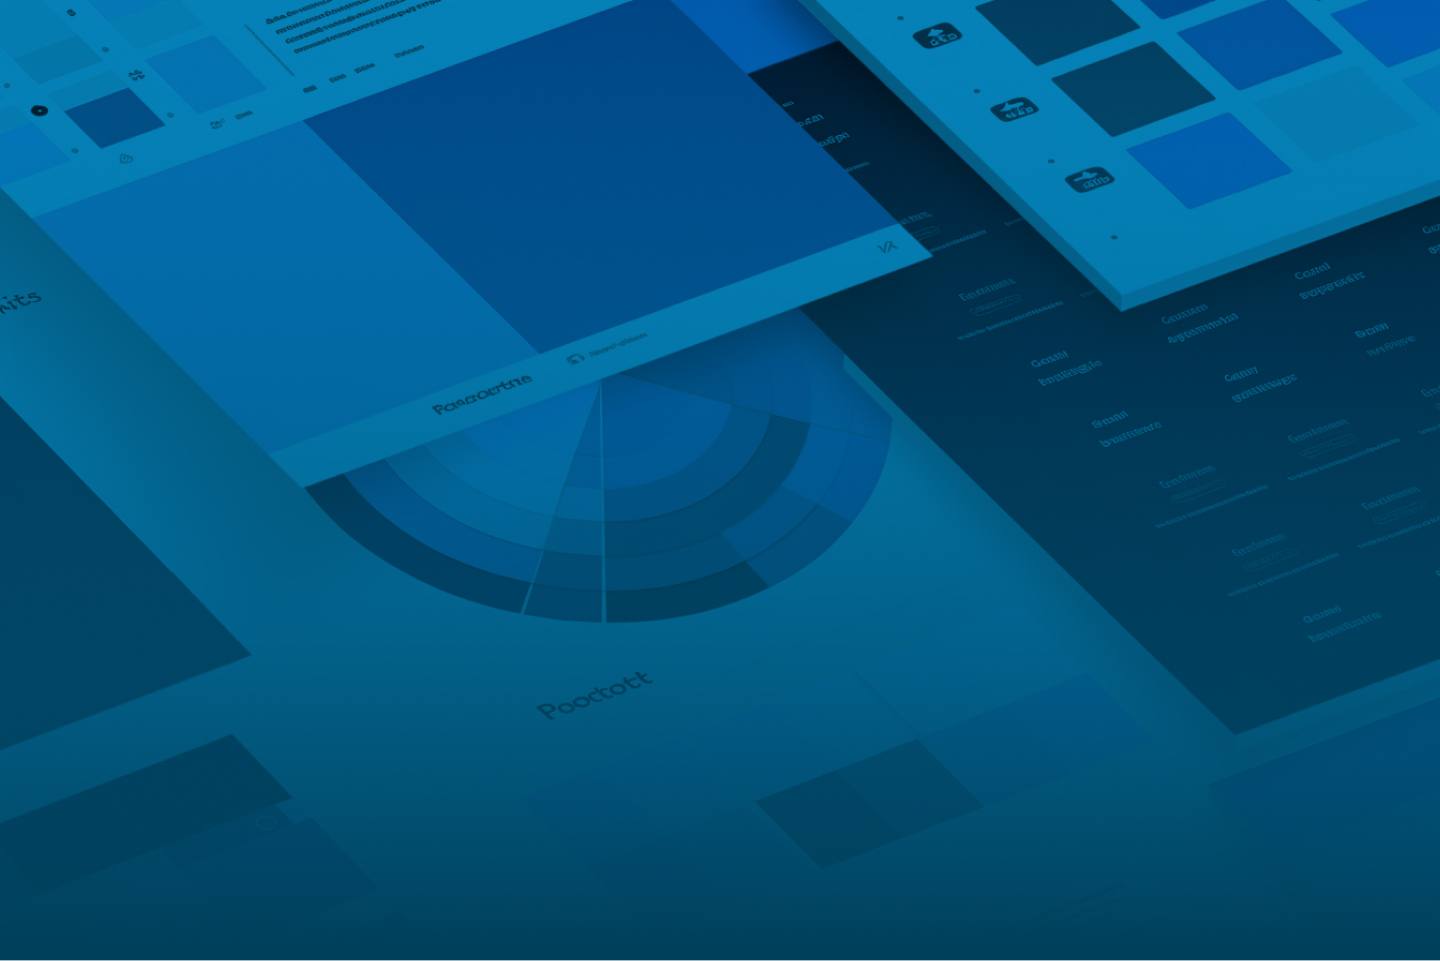
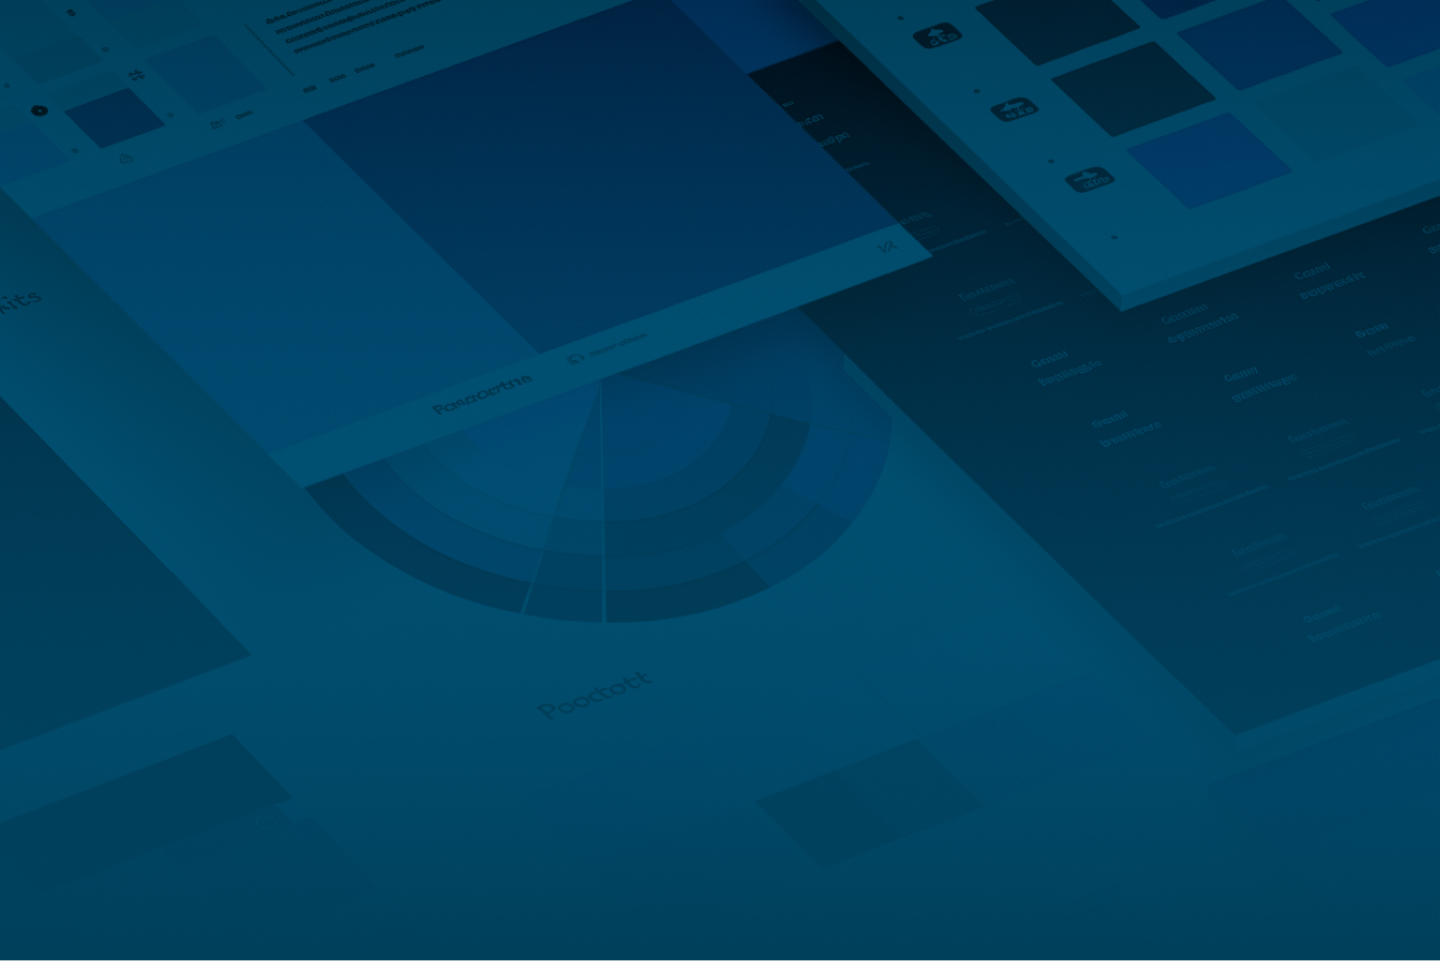
homepage wip

diff --git a/src/pages/index.js b/src/pages/index.js
@@ -6,11 +6,16 @@ import {
   faGrid2Plus,
   faCommentCheck,
 } from '@fortawesome/pro-solid-svg-icons'
+import { faUniversalAccess } from '@fortawesome/pro-regular-svg-icons'
 import TokenIcon from '@mui/icons-material/Token'
 import Image from 'next/image'
+import ReactPlayer from 'react-player'
 import ComponentLibrary from '@/components/icons/ComponentLibrary'
 import builtWithEmulsifyImage from '../images/Built with Emulsify Stamp.png'
 import consistencyImage from '../images/home-consistency.jpg'
+import talkingDrupal from '../images/talking_drupal_logo.png'
+import togetherImage from '../images/home-together.jpg'
+import waveImage from '../images/wave.png'
 
 function Hero() {
   return (
@@ -62,7 +67,7 @@ function DesignSystemsTogether() {
     tryptch: [
       {
         icon: (
-          <ComponentLibrary className="mb-5 h-[48px] text-5xl text-emulsifyBlue-600" />
+          <ComponentLibrary className="mb-5 h-[48px] text-5xl text-orange-500" />
         ),
         title: 'Develop a component-based product experience',
         body: 'A component-based product experience allows for greater efficiency and improved quality in the design and development process.',
@@ -71,7 +76,7 @@ function DesignSystemsTogether() {
         icon: (
           <FontAwesomeIcon
             icon={faDrupal}
-            className="mb-5 text-5xl text-emulsifyBlue-600"
+            className="mb-5 text-5xl text-orange-500"
           />
         ),
         title: 'Create a fully customized Drupal theme from scratch',
@@ -80,10 +85,7 @@ function DesignSystemsTogether() {
       {
         icon: (
           <div className="text-5xl">
-            <TokenIcon
-              className="mb-5 text-emulsifyBlue-600"
-              fontSize="inherit"
-            />
+            <TokenIcon className="mb-5 text-orange-500" fontSize="inherit" />
           </div>
         ),
         title: 'Use the shared language of design tokens',
@@ -95,8 +97,9 @@ function DesignSystemsTogether() {
     <section
       className={classNames(
         'bg-gradient-to-b from-emulsifyBlue-900 to-violet-900',
-        'text-white'
+        'bg-cover text-white'
       )}
+      style={{ backgroundImage: `url("${togetherImage.src}")` }}
     >
       <div className="mx-auto max-w-8xl py-32 sm:px-2 lg:px-8 xl:px-12">
         <h2
@@ -151,7 +154,7 @@ function Consistency() {
         icon: (
           <FontAwesomeIcon
             icon={faGrid2Plus}
-            className="mb-5 text-5xl text-orange-600"
+            className="mb-5 text-5xl text-emulsifyBlue-500"
           />
         ),
         title: 'Get brand consistency, efficiently',
@@ -161,22 +164,27 @@ function Consistency() {
         icon: (
           <FontAwesomeIcon
             icon={faCommentCheck}
-            className="mb-5 text-5xl text-orange-600"
+            className="mb-5 text-5xl text-emulsifyBlue-500"
           />
         ),
-        title:
-          'Let departments and schools express themselves while keeping your brand consistent',
+        title: 'Let departments and schools express themselves',
         body: 'Give clear guidelines to departments, schools, and other entities on how to express themselves while staying true to your brand. Find a balance between individuality and consistency to maintain a cohesive brand image.',
+      },
+      {
+        icon: (
+          <FontAwesomeIcon
+            icon={faUniversalAccess}
+            className="mb-5 text-5xl text-emulsifyBlue-500"
+          />
+        ),
+        title: 'Include everyone with high accessibility standards',
+        body: 'Early identification and addressing potential accessibility issues create a more accessible experience for everyone, including users with disabilities who may struggle with inaccessible websites.',
       },
     ],
   }
   return (
     <section
-      className={classNames(
-        'bg-gradient-to-b from-emulsifyBlue-900 to-violet-900',
-        'text-white',
-        'bg-cover'
-      )}
+      className={classNames('text-white', 'bg-cover')}
       style={{ backgroundImage: `url("${consistencyImage.src}")` }}
     >
       <div className="mx-auto max-w-8xl py-32 sm:px-2 lg:px-8 xl:px-12">
@@ -188,8 +196,12 @@ function Consistency() {
         >
           Keep <em className="brand-consistency">brand consistency</em> across
           all of your websites
+          <span className="block text-5xl text-orange-200">
+            (while maintaining <FontAwesomeIcon icon={faUniversalAccess} />{' '}
+            accessibility)
+          </span>
         </h2>
-        <ul className="grid max-w-[1000px] grid-cols-2 gap-20">
+        <ul className="grid grid-cols-3 gap-14">
           {content.diptych.map((item) => (
             <li key={item.title}>
               {item.icon}
@@ -209,6 +221,56 @@ function Consistency() {
   )
 }
 
+function WhatIsEmulsify() {
+  return (
+    <section
+      className={classNames('bg-emulsifyBlue-100')}
+      style={{
+        backgroundImage: `url("${waveImage.src}")`,
+        backgroundSize: '25%',
+      }}
+    >
+      <div className="mx-auto max-w-8xl py-16 sm:px-2 lg:px-8 xl:px-12">
+        <h2
+          className={classNames(
+            'flex flex-row items-end justify-center gap-4',
+            'font-width-75 text-7xl font-black',
+            'mb-9 text-emulsifyBlue-900'
+          )}
+        >
+          What is Emulsify?
+          <Image
+            src={talkingDrupal}
+            width={169}
+            height={300}
+            alt="Talking Drupal logo"
+            className="relative -top-1"
+          />
+        </h2>
+        <div className="mx-auto max-w-4xl">
+          <ReactPlayer
+            url="https://www.youtube.com/watch?v=Yk_0fARuBas&ab_channel=TalkingDrupal"
+            controls
+            width="100%"
+            height="100%"
+            className="aspect-video"
+          />
+          <p className="mt-3">
+            Watch the full episode at{' '}
+            <a
+              href="https://www.talkingdrupal.com/340"
+              className="text-emulsifyBlue-800 underline"
+            >
+              Talking Drupal #340 - Storybook
+            </a>
+            .
+          </p>
+        </div>
+      </div>
+    </section>
+  )
+}
+
 export default function Index() {
   return (
     <div>
@@ -216,6 +278,7 @@ export default function Index() {
       <DesignSystemsTogether />
       <BuiltWithEmulsify />
       <Consistency />
+      <WhatIsEmulsify />
     </div>
   )
 }
